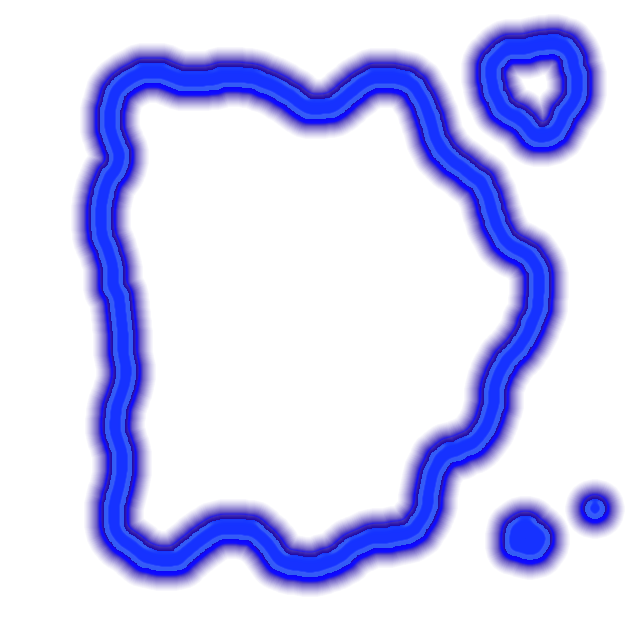
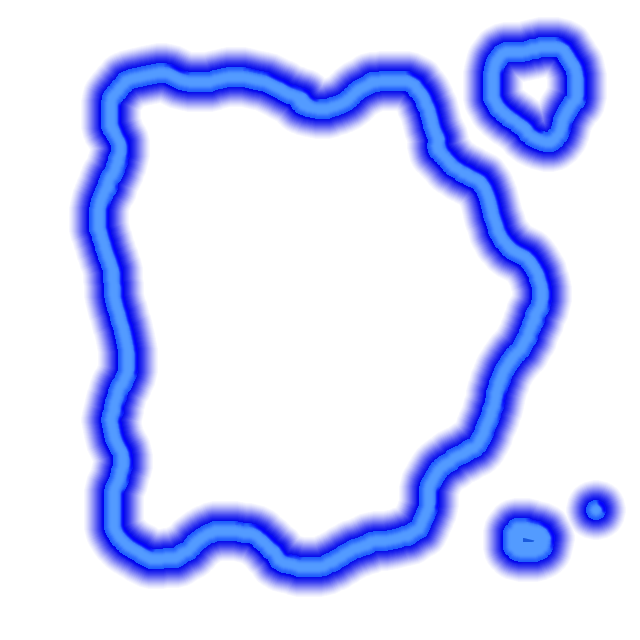
Asset Polish/More Islands

Changed region(s): [[0.0938, 0.0, 0.9375, 0.9375], [0.75, 0.75, 0.9688, 0.9062]]

diff --git a/src/scenes/Load.js b/src/scenes/Load.js
@@ -18,17 +18,21 @@ class Load extends Phaser.Scene {
 
         this.load.path = './assets/';
         // Load graphics:
-        this.load.image('titlescreen', "Title_Screen.png");
-        this.load.image('startbutton', "Start_Button.png");
-        this.load.image("gobutton",    "TestGoButton.png");
-        this.load.image("restart",     "Restart.png");
-        this.load.image("playerboat",  "Ship_01.png");
-        this.load.image("drawfinger",  "TestFinger.png");
-        this.load.image("island",      "Island.png");
-        this.load.image("enemyboat",   "Ship_02.png");
-        this.load.image("backgroundgrid", "Grid.png");
-        this.load.image("objective",      "TestObjective.png");
-        this.load.image("exitpoint",      "exit.png");
+        this.load.image('titlescreen',          "Title_Screen.png");
+        this.load.image('startbutton',          "Start_Button.png");
+        this.load.image("gobutton",             "Go_Button.png");
+        this.load.image("restart",              "Restart.png");
+        this.load.image("playerboat",           "Green_Ship.png");
+        this.load.image("drawfinger",           "TestFinger.png");
+        this.load.image("island",               "Island.png");
+        this.load.image("verticalisland",       "Island_2.png");
+        this.load.image("smallisland",          "Island_3.png");
+        this.load.image("cornerisland",         "Island_4.png");
+        this.load.image("horizontalisland",     "Island_5.png");
+        this.load.image("enemyboat",            "Red_Ship.png");
+        this.load.image("backgroundgrid",       "Grid.png");
+        this.load.image("objective",            "Objective.png");
+        this.load.image("exitpoint",            "Exit.png");
         // Load audio:
         this.load.audio('a_l', 'audio/drone_a_l.wav');
         this.load.audio('a_r', 'audio/drone_a_r.wav');

diff --git a/src/prefabs/ObjectivePoint.js b/src/prefabs/ObjectivePoint.js
@@ -8,6 +8,7 @@ class ObjectivePoint extends Phaser.GameObjects.Sprite {
         this.colRad = 20;
 
         this.alpha = .5;
+        this.scale = .05;
         this.hovered = false;
 
         // objective 'pickup' sfx
@@ -20,7 +21,7 @@ class ObjectivePoint extends Phaser.GameObjects.Sprite {
 
     Hover(){
         this.alpha = 1;
-        this.scale = 1.1;
+        this.scale = 0.075;
         this.hovered = true;
     }
 

diff --git a/src/prefabs/FinalObjectivePoint.js b/src/prefabs/FinalObjectivePoint.js
@@ -17,12 +17,13 @@ class FinalObjectivePoint extends Phaser.GameObjects.Sprite {
 
     UnHover(){
         this.alpha = .5;
+        this.scale = .25;
         this.hovered = false;
     }
 
     Hover(){
         this.alpha = 1;
-        this.scale = 1.1;
+        this.scale = .3;
         this.hovered = true;
     }
 
